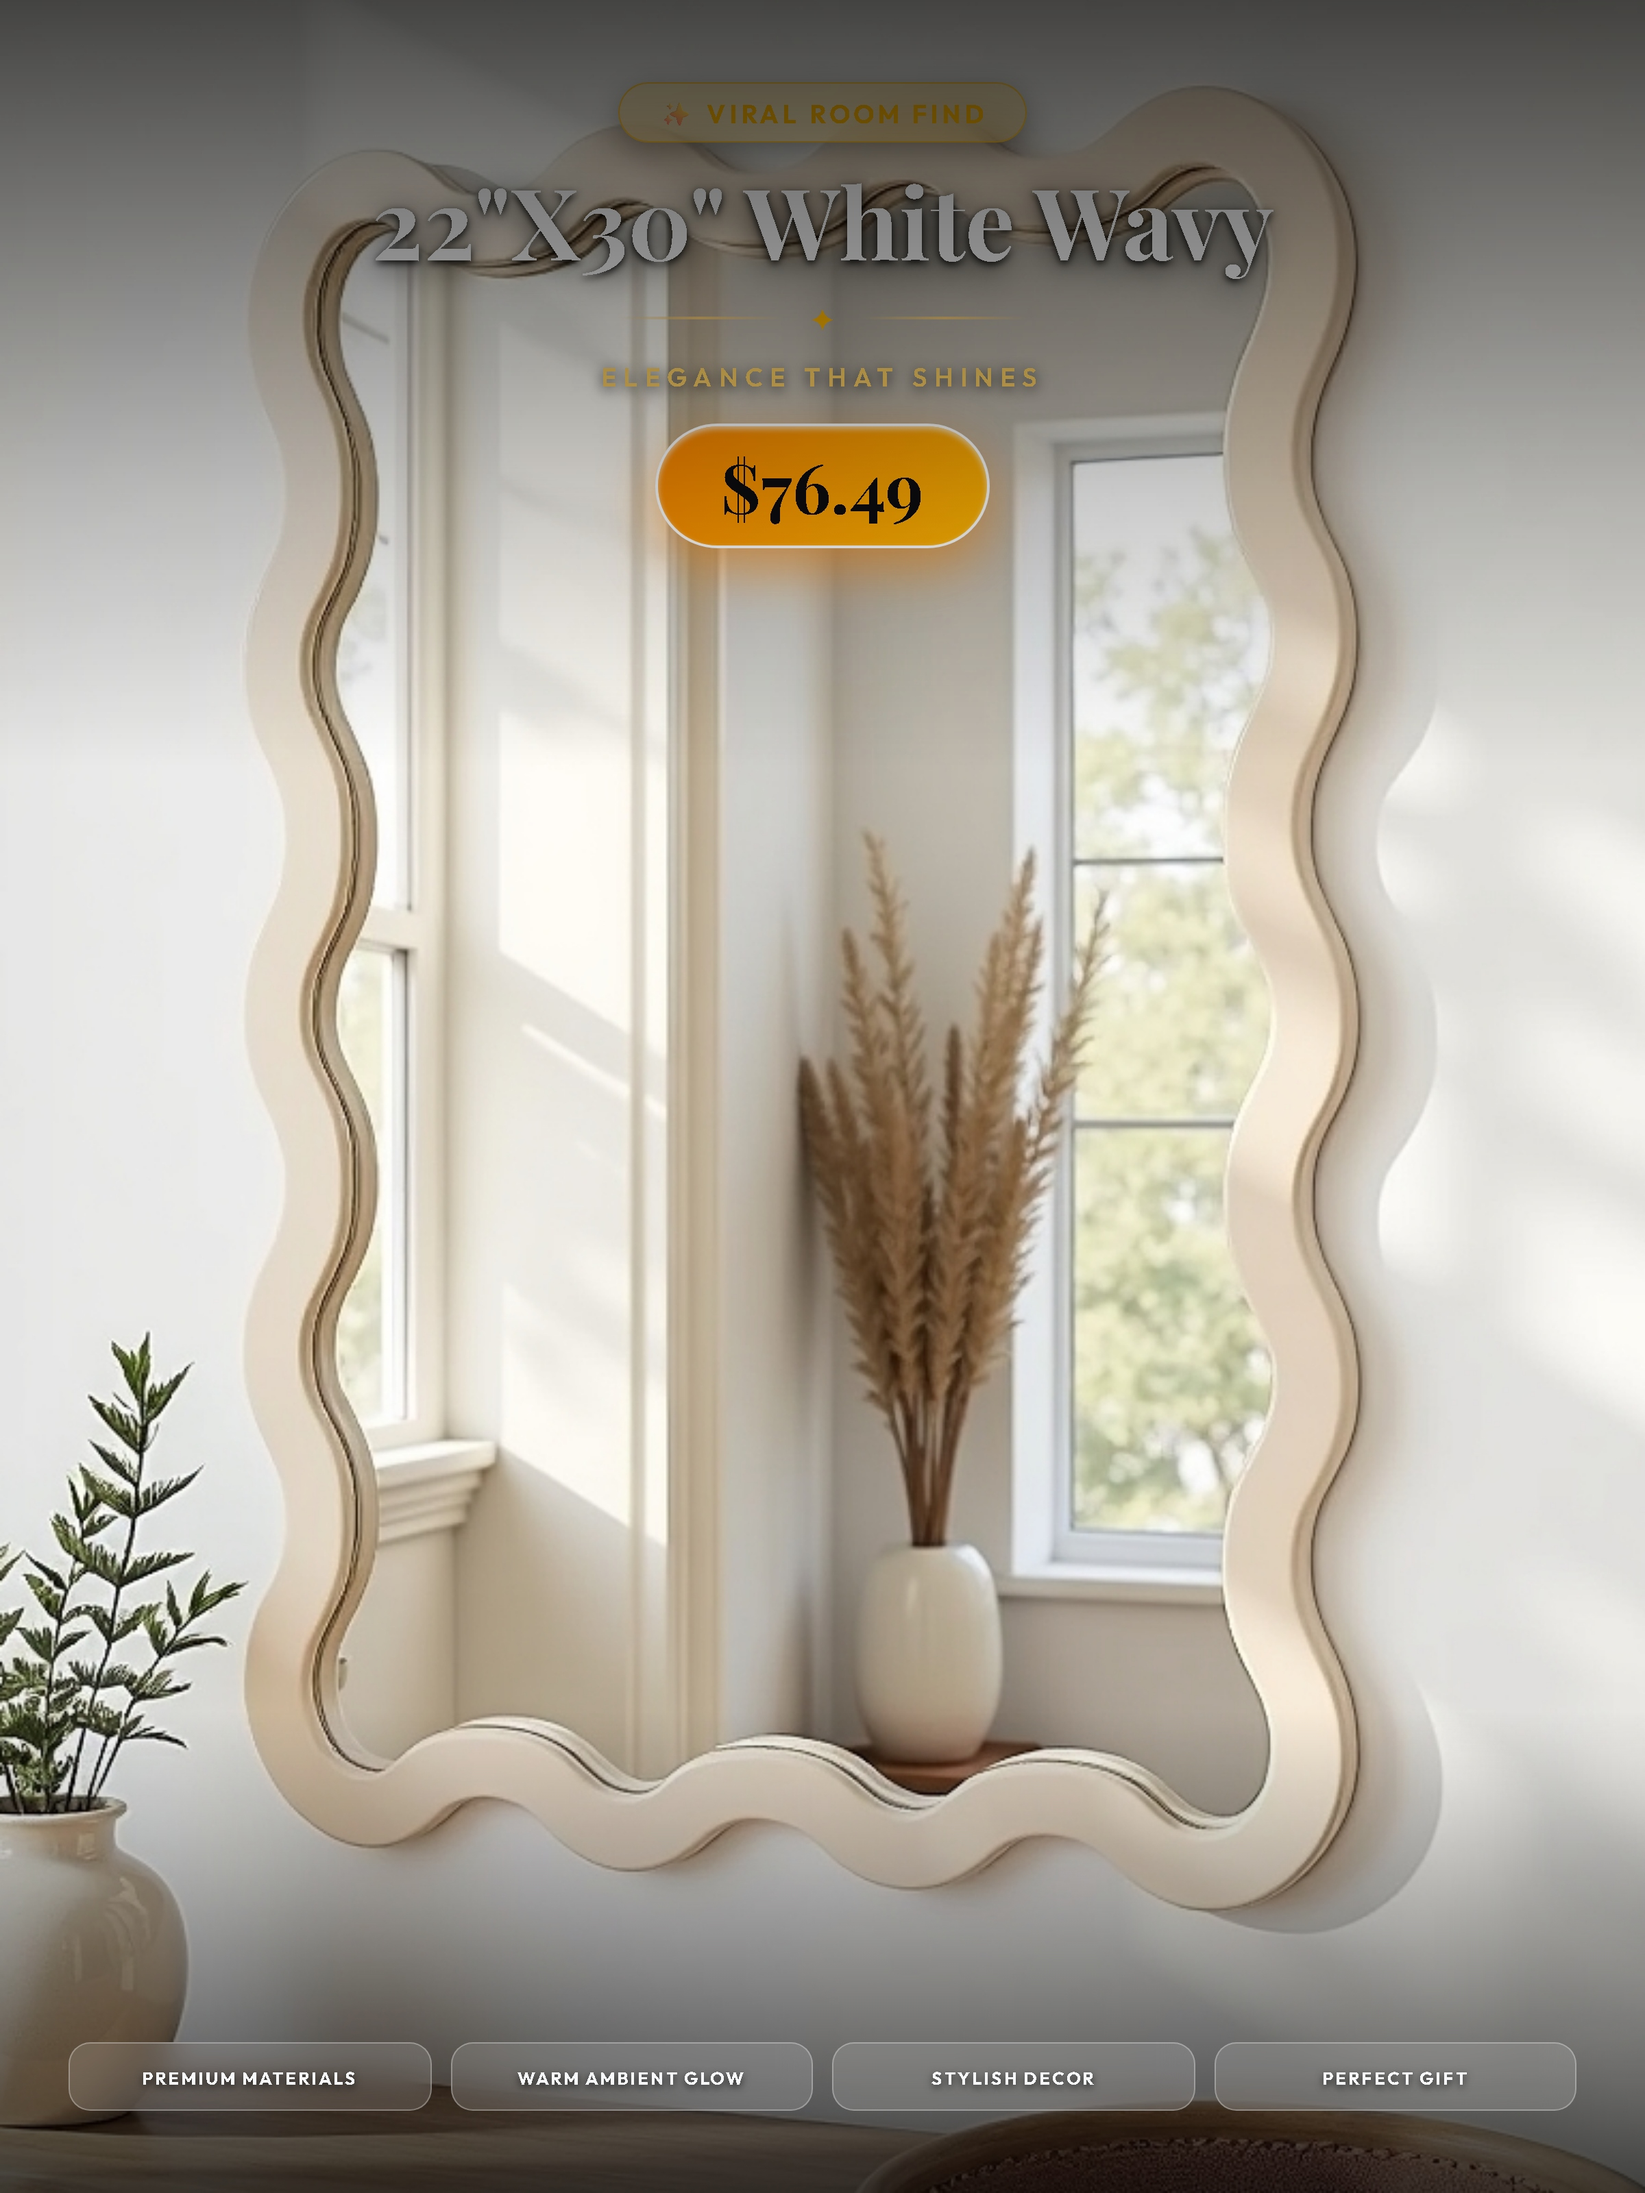
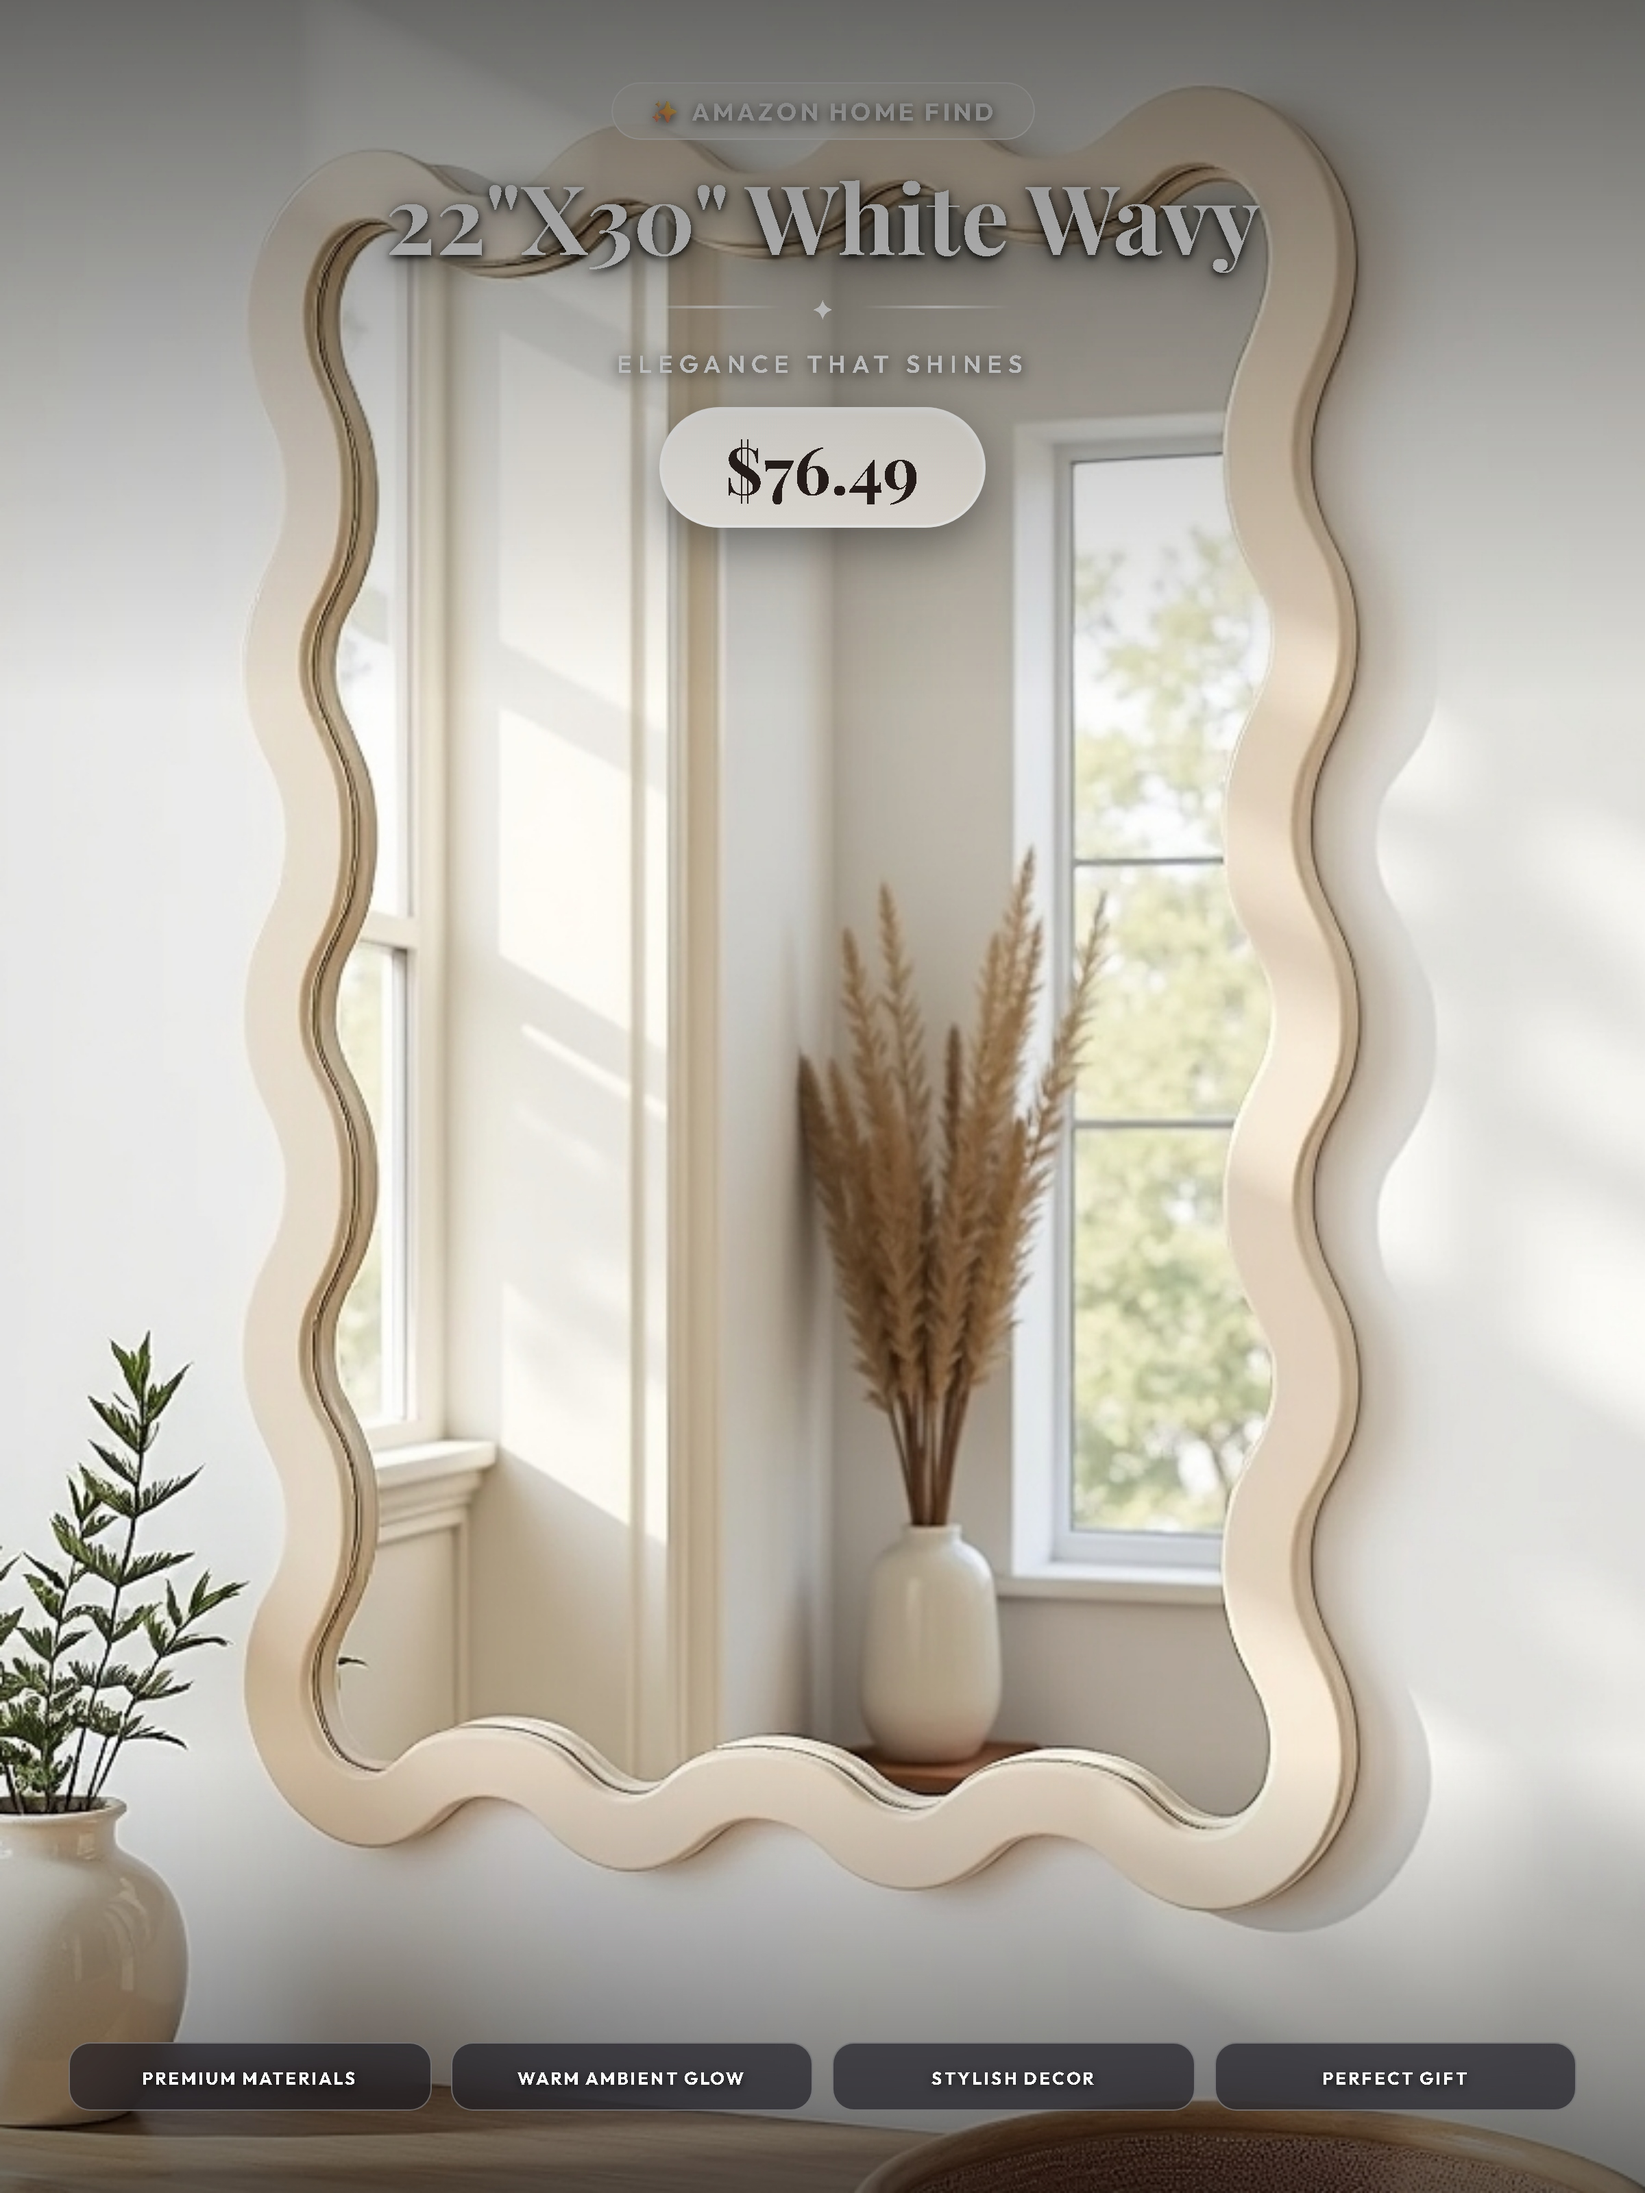
Update B0FXLYXM32 pin graphic with dynamic vibe and aesthetic theme matching

diff --git a/n8n_local_bridge.py b/n8n_local_bridge.py
@@ -1,0 +1,124 @@
+"""
+n8n Local Bridge HTTP Endpoint / CLI Wrapper
+Exposes an n8n-compatible interface for triggering the Pinterest Auto Affiliate Pipeline.
+"""
+import sys
+import io
+import json
+import argparse
+from pathlib import Path
+
+# UTF-8 encoding fix
+if hasattr(sys.stdout, "buffer"):
+    sys.stdout = io.TextIOWrapper(sys.stdout.buffer, encoding="utf-8")
+
+from modules.amazon_extractor import get_product_details_and_photos
+from modules.automated_product_selector import get_next_automated_product, save_processed_asin
+from modules.image_generator import create_multi_photo_reference_sheet, generate_cozy_image
+from modules.html_overlay_engine import render_html_overlay
+from modules.vision_prompt import generate_cozy_image_prompt
+from modules.seo_copywriter import generate_pin_seo_data
+from modules.bridge_creator import generate_bridge_page
+from modules.pinterest_publisher import publish_pin_to_pinterest
+
+def run_n8n_triggered_pipeline(asin=None, amazon_url=None):
+    print("🤖 === N8N TRIGGERED PINTEREST AFFILIATE PIPELINE ===")
+    
+    if asin and not amazon_url:
+        amazon_url = f"https://www.amazon.com/dp/{asin}?tag=smartdeal0358-21"
+    
+    if not amazon_url:
+        item = get_next_automated_product()
+        if not item:
+            print(json.dumps({"status": "error", "message": "No un-processed products in queue"}))
+            return
+        asin = item["id"]
+        amazon_url = item["url"]
+
+    print(f"📦 Target Product ASIN: {asin}")
+    print(f"🔗 Amazon Link: {amazon_url}")
+
+    # Extract Amazon Data
+    prod = get_product_details_and_photos(amazon_url)
+    if not prod:
+        print(json.dumps({"status": "error", "message": f"Could not extract details for ASIN {asin}"}))
+        return
+
+    photos = prod.get("all_photos", [])
+    ref_sheet_path = create_multi_photo_reference_sheet(photos, filename_prefix=f"product_{asin}", max_photos=6)
+
+    # Prompt & AI Image
+    cozy_prompt = generate_cozy_image_prompt(
+        product_title=prod['title'],
+        category=prod['category'],
+        key_features=prod['features'],
+        ref_sheet_path=ref_sheet_path
+    )
+    
+    init_photo = photos[0] if photos else ""
+    raw_image_path = generate_cozy_image(
+        prompt=cozy_prompt,
+        filename_prefix=f"focus_product_{asin}",
+        init_image_path=init_photo
+    )
+
+    # SEO Copywriting
+    seo_data = generate_pin_seo_data(
+        product_title=prod['title'],
+        price=prod['price'],
+        category=prod['category']
+    )
+    headline = seo_data.get("image_hook") or "Cozy Room Find"
+
+    # Playwright Overlay with Dynamic Vibe & Theme Matching
+    hook_img_path = f"G:/CLI/pinterest-auto-affiliate/focus_product_{asin}_hook.jpg"
+    render_html_overlay(
+        image_path=raw_image_path,
+        headline=headline,
+        subtitle=seo_data.get("subtitle_hook") or "ELEVATE YOUR VANITY SPACE",
+        badge_text=seo_data.get("badge_hook") or "VANITY GOALS",
+        price_str=prod['price'],
+        output_path=hook_img_path,
+        theme=seo_data.get("theme_style") or "floating_cream"
+    )
+
+    # Bridge Page Generation
+    generate_bridge_page(prod, seo_data, asin)
+
+    # Pinterest Pin Payload Output
+    bridge_url = f"https://adityasnalawade742-design.github.io/bridge_{asin}.html"
+    image_url = f"https://adityasnalawade742-design.github.io/focus_product_{asin}_hook.jpg"
+    
+    pin_result = publish_pin_to_pinterest(
+        image_path=hook_img_path,
+        title=seo_data['pin_title'],
+        description=seo_data['description'],
+        destination_url=bridge_url,
+        image_url=image_url
+    )
+
+    save_processed_asin(asin)
+
+    n8n_output = {
+        "status": "success",
+        "asin": asin,
+        "product_title": prod['title'],
+        "price": prod['price'],
+        "pin_title": seo_data['pin_title'],
+        "pin_description": seo_data['description'],
+        "bridge_url": bridge_url,
+        "image_url": image_url,
+        "pinterest_api_result": pin_result
+    }
+    
+    # Print JSON output for n8n to capture
+    print(json.dumps(n8n_output, indent=2))
+    return n8n_output
+
+if __name__ == "__main__":
+    parser = argparse.ArgumentParser(description="n8n Local Bridge for Pinterest Auto Affiliate")
+    parser.add_argument("--asin", help="Amazon ASIN code")
+    parser.add_argument("--url", help="Amazon product URL")
+    args = parser.parse_args()
+    
+    run_n8n_triggered_pipeline(asin=args.asin, amazon_url=args.url)

diff --git a/modules/seo_copywriter.py b/modules/seo_copywriter.py
@@ -23,11 +23,12 @@ def generate_pin_seo_data(product_title: str, price: str = "", category: str = "
 
     Generate Pinterest SEO metadata for this product. Return JSON with the following keys:
     - "pin_title": A catchy, high-CTR Pinterest title (under 80 chars, with relevant emoji).
-    - "image_hook": A 2-4 word short punchy headline for the image overlay (e.g. "Retro Mushroom Lamp", "Cozy Touch Bird Light").
-    - "subtitle_hook": A 3-5 word uppercase product feature tagline (e.g. "3-WAY DIMMABLE TOUCH CONTROL", "RECHARGEABLE BEDSIDE GLOW", "MID-CENTURY AMBIENCE").
-    - "badge_hook": A 2-3 word badge / accent phrase (e.g. "MUST-HAVE FIND", "AMAZON HOME PICK", "UNIQUE ROOM UPGRADE").
-    - "description": A 200-300 character SEO-rich Pinterest description with high-volume search phrases naturally included (e.g. "best lamps for rooms", "cozy desk setup", "aesthetic bedroom decor", "budget room finds").
-    - "suggested_board": Recommended Pinterest Board Name (e.g. "Cozy Room Decor Ideas").
+    - "image_hook": A 2-4 word short punchy headline for the image overlay (e.g. "White Wavy Vanity Mirror", "Cozy Touch Bird Light").
+    - "subtitle_hook": A 3-5 word uppercase tagline customized specifically for this product's unique vibe (e.g. "ELEVATE YOUR VANITY SPACE", "FLAMELESS CANDLE LUXURY", "AESTHETIC BEDROOM GLOW").
+    - "badge_hook": A 2-3 word badge customized for this product category (e.g. "VANITY GOALS", "COZY NIGHT VIBES", "ATMOSPHERE FIND").
+    - "theme_style": Choose the best matching visual theme from: "floating_cream" (for mirrors, vanity decor, cream/white aesthetic items) or "floating_luxury" (for glowing lamps, candle warmers, diffusers).
+    - "description": A 200-300 character SEO-rich Pinterest description with high-volume search phrases naturally included.
+    - "suggested_board": Recommended Pinterest Board Name.
     - "keywords": A list of 5 key search terms.
     """
 
@@ -58,24 +59,44 @@ def generate_pin_seo_data(product_title: str, price: str = "", category: str = "
             for k in ["image_hook", "subtitle_hook", "badge_hook"]:
                 if k in data and isinstance(data[k], str):
                     data[k] = re.sub(r'[^\x00-\x7F]+', '', data[k]).strip()
-            if data.get("image_hook") and len(data["image_hook"]) > 3:
+                    # Clean trailing prepositions
+                    words = data[k].split()
+                    while words and words[-1].lower() in ["for", "with", "and", "in", "on", "of", "by", "the", "a", "an"]:
+                        words.pop()
+                    data[k] = " ".join(words)
+
+            if data.get("image_hook") and 2 <= len(data["image_hook"].split()) <= 5:
                 return data
-        except Exception as e:
+        except Exception:
             time.sleep(1)
             continue
 
-    # Smart fallback derived directly from actual product title
-    clean_name = product_title.split("-")[0].split(",")[0].split("|")[0].strip()
-    if len(clean_name) > 35:
-        clean_name = clean_name[:35].rsplit(" ", 1)[0]
+    # Smart Keyword-based Short Punchy Viral Headline Fallback (2-4 Words)
+    title_lower = product_title.lower()
+    if "mushroom" in title_lower:
+        image_hook = "Aesthetic Mushroom Lamp"
+    elif "bird" in title_lower:
+        image_hook = "Cute Bird Touch Lamp"
+    elif "flower" in title_lower or "lily" in title_lower:
+        image_hook = "Lily Of The Valley Glow"
+    elif "warmer" in title_lower or "mug" in title_lower:
+        image_hook = "Aesthetic Coffee Warmer"
+    elif "lamp" in title_lower or "light" in title_lower:
+        image_hook = "Cozy Bedside Touch Lamp"
+    else:
+        words = [w for w in product_title.split() if w.lower() not in ["for", "with", "and", "in", "on", "of", "by", "the", "a", "an", "-", "|"]]
+        image_hook = " ".join(words[:3]).title()
+
+    clean_name = image_hook
 
     return {
         "pin_title": f"Cozy {clean_name} 🕯",
-        "image_hook": clean_name.title(),
+        "image_hook": clean_name,
         "subtitle_hook": "ELEGANCE THAT SHINES",
         "badge_hook": "AMAZON HOME FIND",
         "description": f"Check out the best lamps for rooms and cozy desk decor. Find {clean_name} for the ultimate aesthetic room setup!",
         "suggested_board": "Cozy Room Decor Ideas",
         "keywords": ["cozy room decor", "aesthetic desk setup", "best lamps for rooms", "room upgrade", "budget decor"]
     }
+
 
